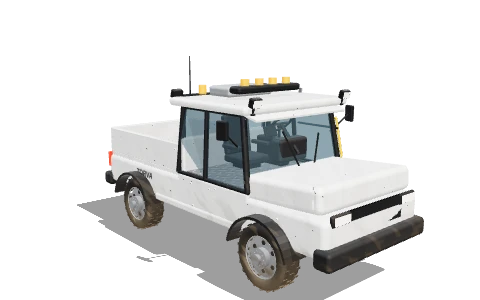
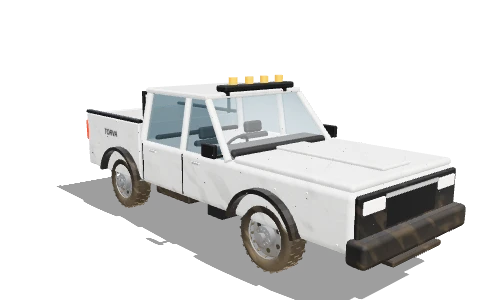
Models: real-proportion site pickup, Cessna-style crashed plane, semi-U dozer blade, pear wrecking ball
- Site pickup rebuilt at double-cab pickup proportions (5.3 m long,
  1.9 m tall, 3.05 m wheelbase, 0.86 m load floor, raised stance, four
  doors, tapered glasshouse, flared arches, roof light bar)
- Crashed plane is a high-wing light plane (11 m span, 8.3 m long,
  tapered tail, struts, spatted gear, snapped wingtip); wrecks no longer
  collapse on spawn (rigid until hit)
- Accident brick delivery clears leftover bricks on the tarp first
- Dozer blade gets semi-U side wings; crane ball is pear-shaped

Claude-Session: https://claude.ai/code/session_01EynHmZRwtARegvioyU37P7

Changed region(s): [[0.125, 0.21, 0.9688, 1.0], [0.7188, 0.54, 0.8125, 0.57]]

diff --git a/src/mx-vehicles.js b/src/mx-vehicles.js
@@ -370,7 +370,9 @@ export function buildDozer(m) {
   const bg = sidePlate([...prof, ...inner], bladeW, -bladeW / 2, 0.01);
   add(m.attach, bg, K.paint);
   const ribs = []; for (let i = 0; i < 7; i++) ribs.push(bx(0.06, 1.2, 0.25, -bladeW / 2 + 0.25 + i * (bladeW - 0.5) / 6, 0.3, -0.12));
-  add(m.attach, mergeG([...ribs, bx(bladeW, 0.12, 0.3, 0, 0.95, -0.05)]), K.paint);
+  add(m.attach, mergeG([...ribs, bx(bladeW, 0.12, 0.3, 0, 0.95, -0.05),
+    // semi-U blade: short side wings angled forward to carry the load
+    bx(0.08, 1.3, 0.62, bladeW / 2 - 0.08, 0.3, 0.32, 0, -0.38, 0), bx(0.08, 1.3, 0.62, -bladeW / 2 + 0.08, 0.3, 0.32, 0, 0.38, 0)]), K.paint);
   add(m.attach, mergeG([bx(bladeW + 0.05, 0.06, 0.12, 0, -0.45, 0.22, 0.3), bx(0.12, 0.6, 0.35, -bladeW / 2, -0.15, 0.1), bx(0.12, 0.6, 0.35, bladeW / 2, -0.15, 0.1), boltRow(V(-bladeW / 2 + 0.2, -0.4, 0.29), V(bladeW / 2 - 0.2, -0.4, 0.29), 18, V(0, 0.3, 1), 0.014, 0.01),
     ...[-1, 1].map((s) => tubeAB(V(s * 1.62, 0.03, -0.42), V(s * 1.22, 0.82, -0.17), 0.05, 10)), ...[-1, 1].map((s) => pinX(0.12, 0.24, s * 1.62, 0, -0.05, 16)), ...[-1, 1].map((s) => rbox(0.2, 0.3, 0.2, 0.03, s * 0.85, 0.7, -0.12))]), K.dark);
   // ripper at the back
@@ -494,7 +496,7 @@ export function buildCrane(m) {
   m.rope = new THREE.Mesh(cy(0.022, 0.022, 1, 6, 0, 0.5, 0), ropeMat); m.rope.userData.keep = true; m.ctx.scene.add(m.rope);
   m.ball = new THREE.Group(); m.ctx.scene.add(m.ball);
   const ballMat = K.dark;
-  add(m.ball, mergeG([new THREE.SphereGeometry(0.62, 32, 20), cy(0.16, 0.2, 0.3, 14, 0, 0.7, 0), new THREE.TorusGeometry(0.12, 0.04, 8, 16).translate(0, 0.92, 0), ...Array.from({ length: 8 }, (_, i) => { const r = bx(0.08, 0.04, 0.5, 0, 0, 0); r.rotateY((i / 8) * Math.PI); return r.translate(0, 0.6, 0); })]), ballMat);
+  add(m.ball, mergeG([new THREE.LatheGeometry([[0, -0.66], [0.3, -0.6], [0.52, -0.42], [0.62, -0.15], [0.6, 0.1], [0.5, 0.32], [0.36, 0.5], [0.24, 0.6], [0, 0.6]].map(([r, y]) => new THREE.Vector2(r, y)), 32), cy(0.16, 0.2, 0.3, 14, 0, 0.7, 0), new THREE.TorusGeometry(0.12, 0.04, 8, 16).translate(0, 0.92, 0), ...Array.from({ length: 8 }, (_, i) => { const r = bx(0.08, 0.04, 0.5, 0, 0, 0); r.rotateY((i / 8) * Math.PI); return r.translate(0, 0.6, 0); })]), ballMat);
   m.ballState = null;
   m.extraMeshes = [m.rope, m.ball, ...m.pendants.map((p) => p.r)];
   m.attach = m.boomG; m.grabPoint = m.tip;
@@ -594,12 +596,16 @@ export function buildPainter(m) {
 }
 
 // --------------------------------------------------------------------------- site pickup (the yard's car)
-// A double-wheel-arch utility pickup: bonnet, crew cab, open bed with side rails, amber light bar. Quick on the road:
-// it is how you get to accidents outside the yard.
+// A double-cab work pickup at real proportions (5.3 m long, 1.9 m tall, 3.05 m wheelbase, 0.86 m load floor):
+// raised 4x4 stance, flat bonnet with a centre crease, grille and headlamps in one surround, four-door cab with a
+// tapered glasshouse, low tray with a flat tailgate, roof light bar. Quick on the road: it is how you get to
+// accidents outside the yard.
 export function buildPickup(m) {
   const K = m.mats, U = new THREE.Group(); m.model.add(U); m.under = U; m.upper = U;
-  const R = 0.42, RR = 0.27, ZF = 1.55, ZR = -1.4, TX = 0.86;
-  const tg = tyreLathe(R, 0.3, RR, { lugs: 22, style: 'block' }), rw = wheelRim(RR, 0.28, { dish: 0.06, vents: 6 });
+  const R = 0.39, RR = 0.25, ZF = 1.6, ZR = -1.45, TX = 0.79;     // tyres 0.78 m, track 1.58 m
+  const ZN = 2.75, ZT = -2.55, W = 1.84;                          // nose / tail, body width
+  const SILL = 0.5, BELT = 1.12, ROOF = 1.8, CF = 1.05, CB = -0.85; // body heights, cab front / back
+  const tg = tyreLathe(R, 0.27, RR, { lugs: 24, style: 'block' }), rw = wheelRim(RR, 0.25, { dish: 0.07, vents: 6 });
   for (const z of [ZF, ZR]) for (const s of [-1, 1]) {
     const hub = new THREE.Group(); hub.position.set(s * TX, R, z); U.add(hub);
     const spin = new THREE.Group(); hub.add(spin);
@@ -607,29 +613,69 @@ export function buildPickup(m) {
     const rm = add(spin, rw.rim, K.grey, false), rv = add(spin, rw.vents, K.black, false);
     if (s < 0) { rm.rotation.y = Math.PI; rv.rotation.y = Math.PI; }
     m.wheels.push(spin); if (z > 0) m.steerWheels.push(hub);
-    add(U, fender(z, R, R + 0.08, 0.2, Math.PI - 0.2, 0.36, s * (TX + 0.06)), K.black);
+    // chunky black wheel-arch flares
+    add(U, fender(z, R, R + 0.1, 0.25, Math.PI - 0.25, 0.16, s * (W / 2 + 0.02), 0.05), K.black);
   }
-  // chassis, axles, lower body with sills
-  add(U, mergeG([rbox(0.9, 0.18, 4.6, 0.03, 0, 0.5, 0.05), pinX(0.06, 1.6, 0, R, ZF), pinX(0.07, 1.6, 0, R, ZR)]), K.under);
-  add(U, mergeG([rbox(1.86, 0.5, 4.9, 0.09, 0, 0.86, 0.05), rbox(1.9, 0.12, 2.0, 0.04, 0, 0.66, 0.1)]), K.paint);
-  // bonnet, grille, headlights, bumper
-  add(U, mergeG([rbox(1.8, 0.32, 1.3, 0.08, 0, 1.25, 1.75, -0.06)]), K.paint);
-  grille(U, 1.1, 0.3, 0, 1.0, 2.5, 0, 14);
-  for (const s of [-1, 1]) { add(U, rbox(0.34, 0.14, 0.06, 0.03, s * 0.66, 1.08, 2.49), K.black); add(U, bx(0.28, 0.1, 0.01, s * 0.66, 1.08, 2.525), K.lens, false).userData.keep = true; }
-  add(U, mergeG([rbox(1.96, 0.24, 0.26, 0.06, 0, 0.66, 2.48), rbox(1.96, 0.22, 0.24, 0.06, 0, 0.66, -2.4)]), K.dark);
-  add(U, mergeG([-1, 1].map((s) => rbox(0.16, 0.26, 0.05, 0.02, s * 0.84, 1.0, -2.42))), K.red, false);
-  // crew cab with glass, seat and wheel (the shared cab), roof light bar
-  modernCab(m, U, 0, 0.82, 0.48, { w: 1.82, d: 1.5, h: 1.45, door: 1 });
-  add(U, mergeG([rbox(1.2, 0.1, 0.22, 0.04, 0, 2.38, 0.6)]), K.black);
-  add(U, mergeG([-0.4, -0.13, 0.13, 0.4].map((x) => cy(0.06, 0.06, 0.12, 12, x, 2.46, 0.6))), K.amber, false);
-  // open bed: floor, sides, tailgate, headache rack
-  add(U, mergeG([rbox(1.78, 0.08, 2.1, 0.02, 0, 1.12, -1.3), ...[-1, 1].map((s) => rbox(0.08, 0.42, 2.1, 0.02, s * 0.86, 1.36, -1.3)), rbox(1.78, 0.42, 0.08, 0.02, 0, 1.36, -2.33)]), K.paint);
-  add(U, mergeG([...[-1, 1].map((s) => cy(0.03, 0.03, 0.7, 8, s * 0.8, 1.9, -0.28)), cy(0.03, 0.03, 1.6, 8, 0, 2.25, -0.28, 0, 0, Math.PI / 2)]), K.black);
-  for (const s of [-1, 1]) { const l = label(m.spec.brand, 0.9, 0.2, '#15171a'); l.position.set(s * 0.94, 0.95, -1.2); l.rotation.y = s * Math.PI / 2; U.add(l); }
-  m.door = anchor(U, 1.3, 0, 0.5);
-  m.attach = U; m.att = attStub('car', { grab: anchor(U, 0, 1.2, -1.3) }); m.grabPoint = m.att.grab;
-  m.colliderSets.push({ obj: U, boxes: [[0, 1.0, 0.05, 1.95, 1.1, 4.95], [0, 1.7, 0.48, 1.8, 0.9, 1.5]], chassis: true });
-  m.radius = 2.8;
+  // ladder chassis, axles, diff, fuel tank, exhaust (216 mm of ground clearance)
+  add(U, mergeG([...[-1, 1].map((s) => rbox(0.1, 0.16, 4.7, 0.02, s * 0.42, 0.42, 0.1)), pinX(0.05, 1.5, 0, R, ZF), pinX(0.06, 1.5, 0, R, ZR),
+    new THREE.SphereGeometry(0.17, 12, 8).scale(1, 0.85, 1).translate(0, R - 0.02, ZR), rbox(0.6, 0.28, 0.8, 0.03, -0.45, 0.48, -0.4)]), K.under);
+  add(U, mergeG([cy(0.035, 0.035, 2.6, 8, 0.32, 0.36, -1.0, Math.PI / 2)]), K.dark);
+  // lower body: front wings + doors + rear quarters as one painted tub between sill and belt line
+  add(U, mergeG([rbox(W, BELT - SILL, ZN - CB + 0.08, 0.08, 0, (SILL + BELT) / 2, (ZN + CB - 0.08) / 2)]), K.paint);
+  // bonnet: flat, slightly raised centre crease, sloping into the windscreen
+  add(U, mergeG([rbox(W - 0.04, 0.08, ZN - CF - 0.05, 0.04, 0, BELT + 0.03, (ZN + CF) / 2), rbox(0.5, 0.04, ZN - CF - 0.2, 0.02, 0, BELT + 0.09, (ZN + CF) / 2 - 0.05)]), K.paint);
+  // nose: grille and headlamps in one dark surround, chrome bar, big bumper with a skid plate
+  add(U, rbox(W - 0.06, 0.42, 0.06, 0.03, 0, 0.88, ZN + 0.01), K.black);
+  grille(U, 0.9, 0.3, 0, 0.86, ZN + 0.045, 0, 12);
+  add(U, mergeG([bx(0.95, 0.04, 0.02, 0, 1.03, ZN + 0.05)]), K.chrome, false);
+  for (const s of [-1, 1]) { const l = add(U, mergeG([rbox(0.34, 0.13, 0.04, 0.04, s * 0.66, 0.97, ZN + 0.04)]), K.lens, false); l.userData.keep = true; }
+  add(U, mergeG([rbox(W + 0.06, 0.26, 0.24, 0.06, 0, 0.56, ZN + 0.05), rbox(0.9, 0.06, 0.5, 0.02, 0, 0.36, ZN - 0.1)]), K.dark);
+  // four-door double cab: belt rail, door shut lines, handles, tapered glasshouse, roof
+  const cl = CF - CB, cz = (CF + CB) / 2, hw = W / 2 - 0.02, tw = W / 2 - 0.13;
+  add(U, mergeG([...[-1, 1].flatMap((s) => [bx(0.012, BELT - SILL - 0.1, 0.012, s * (W / 2 + 0.002), (SILL + BELT) / 2, cz + 0.02), bx(0.012, BELT - SILL - 0.1, 0.012, s * (W / 2 + 0.002), (SILL + BELT) / 2, CB + 0.02)])]), K.black, false);
+  add(U, mergeG([-1, 1].flatMap((s) => [rbox(0.03, 0.035, 0.16, 0.01, s * (W / 2 + 0.012), BELT - 0.12, cz + 0.32), rbox(0.03, 0.035, 0.16, 0.01, s * (W / 2 + 0.012), BELT - 0.12, CB + 0.3)])), K.chrome, false);
+  const P = (x, y, z) => V(x, y, z);
+  const fb = P(0, BELT, CF - 0.05), rt = ROOF - 0.04;
+  // pillars (A, B, C) and roof rails in body colour
+  const pil = [];
+  for (const s of [-1, 1]) {
+    pil.push(tubeAB(P(s * hw, BELT, CF - 0.05), P(s * tw, rt, CF - 0.55), 0.045, 8));   // raked A-pillar
+    pil.push(tubeAB(P(s * hw, BELT, cz + 0.02), P(s * tw, rt, cz + 0.02), 0.05, 8));     // B-pillar
+    pil.push(tubeAB(P(s * hw, BELT, CB + 0.03), P(s * tw, rt, CB + 0.08), 0.06, 8));     // C-pillar
+  }
+  add(U, mergeG(pil), K.paint);
+  add(U, mergeG([rbox(2 * tw + 0.08, 0.07, CF - 0.55 - CB + 0.02, 0.03, 0, ROOF, (CF - 0.55 + CB) / 2)]), K.paint);
+  // glass, hidden from the driver's own seat
+  const gl = [pane(P(-hw, BELT, CF - 0.05), P(hw, BELT, CF - 0.05), P(tw, rt, CF - 0.55), P(-tw, rt, CF - 0.55)),
+    pane(P(hw, BELT, CB + 0.03), P(-hw, BELT, CB + 0.03), P(-tw, rt, CB + 0.08), P(tw, rt, CB + 0.08))];
+  for (const s of [-1, 1]) gl.push(pane(P(s * hw, BELT, CF - 0.05), P(s * hw, BELT, CB + 0.03), P(s * tw, rt, CB + 0.08), P(s * tw, rt, CF - 0.55)));
+  U.add(exteriorOnly(new THREE.Mesh(mergeG(gl), K.glass)));
+  // mirrors
+  for (const s of [-1, 1]) add(U, mergeG([rbox(0.06, 0.16, 0.24, 0.02, s * (W / 2 + 0.14), BELT + 0.12, CF - 0.2), bx(0.14, 0.03, 0.04, s * (W / 2 + 0.06), BELT + 0.05, CF - 0.15)]), K.black);
+  // interior: two front seats, rear bench, dash and wheel (driver on the left)
+  seat(K, U, -0.4, SILL + 0.05, cz + 0.2); seat(K, U, 0.4, SILL + 0.05, cz + 0.2);
+  add(U, mergeG([rbox(1.5, 0.14, 0.5, 0.04, 0, SILL + 0.1, CB + 0.35), rbox(1.5, 0.55, 0.1, 0.04, 0, SILL + 0.4, CB + 0.1)]), K.plastic, false);
+  add(U, mergeG([rbox(W - 0.2, 0.25, 0.4, 0.05, 0, BELT - 0.02, CF - 0.25)]), K.plastic, false);
+  steeringWheel(K, U, -0.4, BELT + 0.05, CF - 0.5, 0.95);
+  // light bar on the roof
+  add(U, mergeG([rbox(1.2, 0.08, 0.2, 0.03, 0, ROOF + 0.09, cz + 0.4), ...[-1, 1].map((s) => bx(0.04, 0.08, 0.06, s * 0.5, ROOF + 0.04, cz + 0.4))]), K.black);
+  m.beacon = add(U, mergeG([-0.4, -0.13, 0.13, 0.4].map((x) => cy(0.055, 0.055, 0.1, 12, x, ROOF + 0.17, cz + 0.4))), K.amber, false);
+  m.beacon.userData.keep = true;
+  // tray: 0.86 m load floor, 0.48 m sides, flat tailgate with a latch, tail lamps in the rear quarters
+  const TZ0 = CB - 0.08, TL = TZ0 - ZT, tz = (TZ0 + ZT) / 2, FL = 0.86, SH = 0.48;
+  // rear quarters run from the sill up to the tray rail; the floor sits inside them at load height
+  add(U, mergeG([rbox(W - 0.1, 0.06, TL, 0.02, 0, FL, tz), ...[-1, 1].map((s) => rbox(0.08, FL + SH - SILL, TL, 0.03, s * (W / 2 - 0.04), (SILL + FL + SH) / 2, tz)),
+    rbox(W - 0.1, SH, 0.07, 0.02, 0, FL + SH / 2, TZ0), rbox(W - 0.1, FL + SH - SILL - 0.02, 0.07, 0.02, 0, (SILL + FL + SH) / 2, ZT + 0.04)]), K.paint);
+  add(U, mergeG([...[-1, 1].map((s) => rbox(0.09, 0.05, TL, 0.02, s * (W / 2 - 0.035), FL + SH + 0.02, tz)), rbox(0.3, 0.05, 0.03, 0.01, 0, FL + SH - 0.1, ZT + 0.0)]), K.black);
+  add(U, mergeG([-1, 1].map((s) => rbox(0.08, 0.32, 0.05, 0.02, s * (W / 2 - 0.03), FL + 0.2, ZT + 0.0))), K.red, false);
+  // headache rack behind the cab
+  add(U, mergeG([...[-1, 1].map((s) => cy(0.025, 0.025, 0.55, 8, s * 0.78, ROOF - 0.3, TZ0 - 0.06)), cy(0.025, 0.025, 1.56, 8, 0, ROOF - 0.05, TZ0 - 0.06, 0, 0, Math.PI / 2)]), K.black);
+  for (const s of [-1, 1]) { const l = label(m.spec.brand, 0.75, 0.17, '#15171a'); l.position.set(s * (W / 2 + 0.01), FL + 0.24, tz); l.rotation.y = s * Math.PI / 2; U.add(l); }
+  m.seat = anchor(U, -0.4, BELT + 0.3, cz + 0.12);
+  m.door = anchor(U, 1.25, 0, cz + 0.3);
+  m.attach = U; m.att = attStub('car', { grab: anchor(U, 0, FL + 0.3, tz) }); m.grabPoint = m.att.grab;
+  m.colliderSets.push({ obj: U, boxes: [[0, (SILL + BELT) / 2 + 0.04, (ZN + ZT) / 2, W, BELT - SILL + 0.12, ZN - ZT], [0, (BELT + ROOF) / 2, (CF - 0.3 + CB) / 2, W - 0.2, ROOF - BELT, CF - 0.3 - CB]], chassis: true });
+  m.radius = 2.9;
   m.bakeList.push(U);
   m.rig = { family: 'car', drive: 'car', wheelbase: ZF - ZR, accel: 6.5, brake: 10, maxLat: 7, swing: false, limits: {}, rates: {},
     apply(mm) { for (const h of mm.steerWheels) h.rotation.y = mm.steerVis; } };

diff --git a/src/incidents.js b/src/incidents.js
@@ -42,16 +42,27 @@ const GAP = wallLayout().gap;
 function wreckParts(kind, seed) {
   const r = rng(seed * 7 + 3), out = [];
   if (kind === 'plane') {
+    // a high-wing light plane (Cessna-like: 8.3 m long, 11 m span, tricycle gear) nosed into the wall; the nose
+    // gear collapsed, so it sits on its belly with the tail cocked up
     const W = 0xf2f2ee, S = [0xd8262b, 0x1f6fd0, 0xf2b200][Math.floor(r() * 3)], G = 0x7fb8d8, D = 0x2a2c30;
-    out.push([0, 0.55, 0.05, 1.0, 1.0, 0.55, S]);                     // engine cowling, stuck in the wall
-    out.push([0, 0.55, -0.42, 0.14, 1.25, 0.14, D]);                  // bent propeller
-    for (const [z, c] of [[0.95, W], [2.25, S], [3.55, W], [4.85, W]]) out.push([0, 0.6, z, 1.1, 1.1, 1.25, c]);
-    out.push([0, 0.75, 6.05, 0.8, 0.8, 1.1, W]);                      // tail cone
-    out.push([0, 1.32, 2.1, 0.86, 0.42, 1.0, G]);                     // canopy glass
-    for (const s of [-1, 1]) for (const [x, c] of [[1.2, W], [2.5, S], [3.75, W]]) out.push([s * x, 0.82, 3.4, 1.25, 0.14, 1.2, c]);
-    out.push([0, 1.65, 6.15, 0.12, 1.0, 0.9, S]);                     // fin
-    for (const s of [-1, 1]) out.push([s * 0.9, 0.98, 6.25, 0.95, 0.1, 0.7, W]);
-    for (const s of [-1, 1]) out.push([s * 0.6, 0.18, 2.6, 0.16, 0.36, 0.36, D]); // gear wheels
+    out.push([0, 0.62, 0.05, 1.0, 0.9, 0.6, W]);                      // engine cowling, stuck in the wall
+    out.push([0.1, 0.62, -0.4, 0.1, 1.2, 0.14, D, 0, 0.45]);          // bent propeller
+    for (const [z, c] of [[0.95, W], [2.15, W]]) out.push([0, 0.62, z, 1.12, 0.8, 1.2, c]);   // cabin, lower
+    for (const z of [0.95, 2.15]) out.push([0, 1.3, z, 1.04, 0.56, 1.2, G]);                  // cabin windows
+    for (const [z, w, h, y, c] of [[3.35, 1.0, 0.95, 0.75, S], [4.55, 0.86, 0.8, 0.85, W], [5.75, 0.72, 0.66, 0.97, S], [6.9, 0.56, 0.52, 1.1, W]]) out.push([0, y, z, w, h, 1.2, c]); // tapering tail cone
+    out.push([0, 1.98, 7.15, 0.1, 1.25, 1.0, W]);                     // fin
+    out.push([0, 1.7, 7.75, 0.08, 0.9, 0.4, S]);                      // rudder
+    for (const sg of [-1, 1]) out.push([sg * 0.82, 1.18, 7.25, 1.3, 0.08, 0.72, W]);   // tailplanes
+    // high wing on top of the cabin, 1.3 m chord, red tips; the left tip snapped off and lies on the ground
+    out.push([0, 1.64, 1.55, 1.25, 0.12, 1.3, W]);
+    for (const sg of [-1, 1]) for (const [x, c] of [[1.25, W], [2.5, W], [3.75, S]]) out.push([sg * x, 1.64, 1.55, 1.25, 0.12, 1.3, c]);
+    out.push([4.95, 1.64, 1.55, 1.15, 0.12, 1.3, S]);
+    out.push([-5.6, 0.07, 2.6, 1.15, 0.12, 1.3, S, 0, 0.0, 0.35]);
+    // wing struts from the belly to under the wing
+    for (const sg of [-1, 1]) out.push([sg * 1.32, 1.08, 1.75, 0.07, 1.25, 0.12, W, 0, sg * 0.82]);
+    // main gear: legs and spatted wheels; the nose wheel broke off
+    for (const sg of [-1, 1]) { out.push([sg * 1.05, 0.38, 2.45, 0.08, 0.5, 0.1, D, 0, sg * 0.6]); out.push([sg * 1.3, 0.2, 2.45, 0.2, 0.4, 0.62, W]); }
+    out.push([0.9, 0.17, -0.6, 0.16, 0.34, 0.34, D]);
   } else {
     const C = CAR_COLORS[Math.floor(r() * CAR_COLORS.length)], G = 0x6a8fa6, D = 0x1e1f22, M = 0x9a9ea2;
     out.push([0, 0.42, 0.12, 1.8, 0.3, 0.3, M]);                       // bumper in the wall
@@ -122,8 +133,8 @@ export class Incidents {
       // two pillars at the ends
       for (const x of [-5.1, 5.1]) for (let c = 0; c < COURSES + 1; c++) out.push({ type: 'cmuHalf', pos: new THREE.Vector3(s.x + x, HB / 2 + c * HB, s.z), size: new THREE.Vector3(), quat: null, color: new THREE.Color(0x85847f) });
     } else {
-      for (const [x, y, z, sx, sy, sz, c, tilt] of wreckParts(kind, seed)) {
-        const q = tilt ? new THREE.Quaternion().setFromEuler(new THREE.Euler(tilt, 0, 0)) : null;
+      for (const [x, y, z, sx, sy, sz, c, tilt, tiltZ, tiltY] of wreckParts(kind, seed)) {
+        const q = tilt || tiltZ || tiltY ? new THREE.Quaternion().setFromEuler(new THREE.Euler(tilt || 0, tiltY || 0, tiltZ || 0)) : null;
         out.push({ type: 'wreck', pos: new THREE.Vector3(s.x + x, y, s.z + z), size: new THREE.Vector3(sx, sy, sz), quat: q, color: new THREE.Color(c) });
       }
     }
@@ -155,6 +166,9 @@ export class Incidents {
     // bricks for the repair: the wall's own colour, on the tarp
     const col = new THREE.Color(WALL_COLORS[site % WALL_COLORS.length]);
     const need = GAP.length, cb = g.pressCb();
+    // leftover bricks from an earlier delivery here make room for the new ones
+    const tarp = this.local(site, -7.0, 0, 4.2);
+    for (const p of g.demo.pieces) if (p.brick && p.state === LOOSE && Math.abs(p.pos.x - tarp.x) < 3 && Math.abs(p.pos.z - tarp.z) < 2.4) g.demo.vanish(p, false);
     for (let i = 0; i < need + 2; i++) {
       const p = this.local(site, -8.2 + (i % 3) * 1.25, 0.31 + Math.floor(i / 9) * 0.62, 3.4 + (Math.floor(i / 3) % 3) * 0.66);
       cb.spawn(p, new THREE.Quaternion(), col.clone().multiplyScalar(0.92 + Math.random() * 0.12));

diff --git a/src/demolition.js b/src/demolition.js
@@ -318,6 +318,7 @@ export class Demolition {
   // hanging costs metres / (how far that piece type can cantilever). Anything whose total exceeds 1 falls.
   recompute(b) {
     if (!b || (b.pool && !b.built)) return 0;
+    if (typeof b.def === 'string' && b.def.startsWith('__incx')) return 0; // a crashed wreck is one rigid tangle: parts only come off when hit
     const n = b.count, s0 = b.start;
     // big buildings: spans scale with the building, and bricks bond harder (STICK) so walls hold bigger holes
     // A block needs something under it, or a short bonded chain sideways to a supported block. A block
